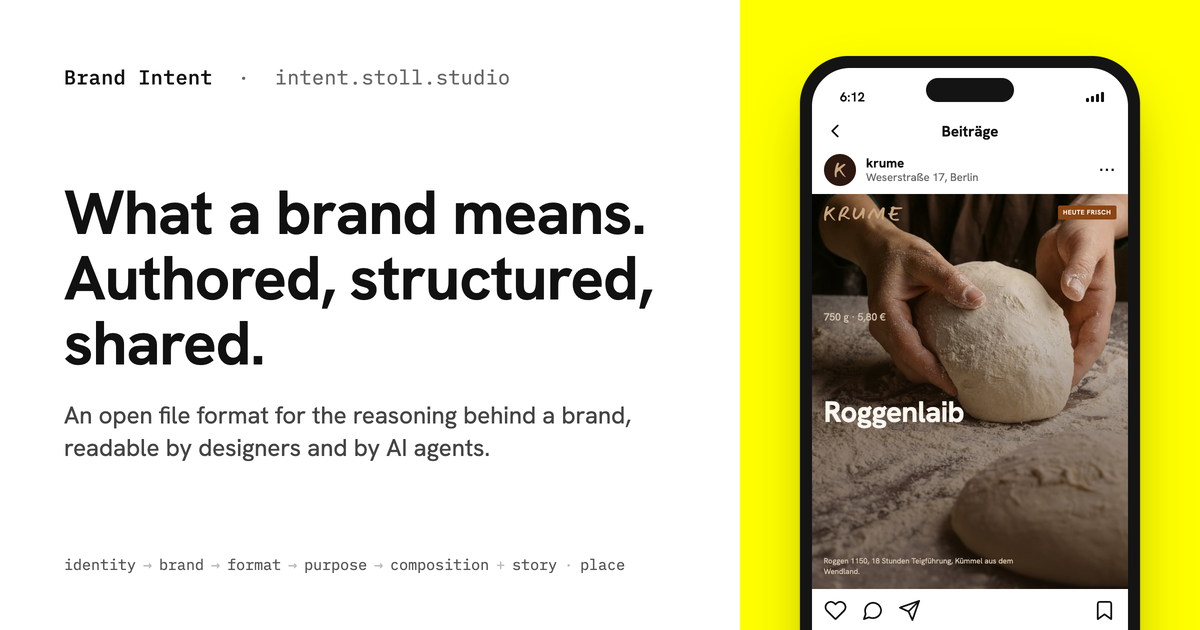
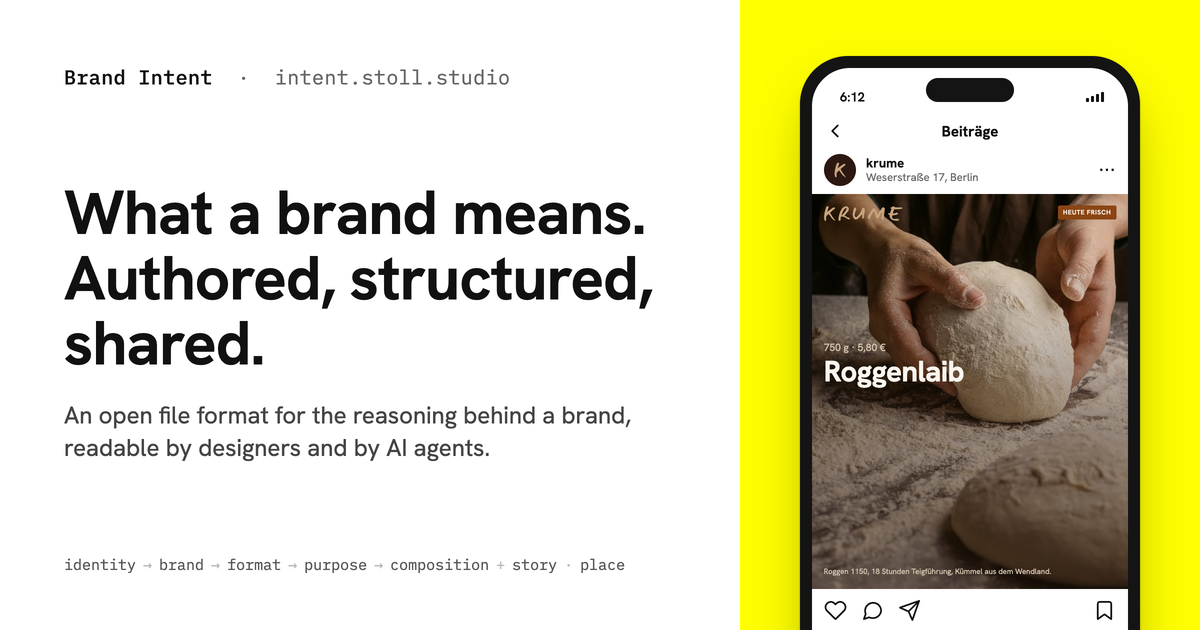
Krume post: kicker sits on the headline, meta line takes the free CTA column
editorial.composition puts secondary at the bottom of row 2 (was
center), so kicker and headline read as a pair. The landing CSS had
put the headline at the bottom of row 3 with no basis in the
composition; it now sits at the top, the spec's default.

The meta line spans all four columns on the landing page because this
page has no cta; the composition still gives meta cols 1--3. OG image
regenerated.

Claude-Session: https://claude.ai/code/session_015dVxXQ7DA8zC9XXfbRFpAh

Changed region(s): [[0.6783, 0.5429, 0.8017, 0.6937], [0.6783, 0.8746, 0.8633, 0.9349], [0.6783, 0.4825, 0.74, 0.5127]]

diff --git a/css/landing.css b/css/landing.css
@@ -334,7 +334,7 @@ pre .flag{ color: var(--color-info); font-style: italic; }
 .post-canvas {
   /* 4:5 canvas, five rows by four columns, comfort margin 40 of 1080 px.
      Sizes in cqw follow krume.brand: headline at its autofit-max 10, kicker at 3.5,
-     caption 2.2, label 2. Tafel theme: flour on dark roast, over the photo with a dark
+     caption 2.6, label 2.2. Tafel theme: flour on dark roast, over the photo with a dark
      scrim from below, at most the 40 % krume.brand allows under light text. */
   container-type: inline-size;
   position: relative;
@@ -380,18 +380,19 @@ pre .flag{ color: var(--color-info); font-style: italic; }
 }
 .pc-secondary {
   grid-row: 2; grid-column: 1 / 5;
-  align-self: center;
+  align-self: end;
   color: #D4C4B0;
   font-weight: 400; font-size: 3.5cqw; line-height: 1.3;
 }
 .pc-primary {
   grid-row: 3; grid-column: 1 / 5;
-  align-self: end;
+  align-self: start;
   font-weight: 700; font-size: 10cqw; line-height: 1.15;
   letter-spacing: -0.015em;
 }
 .pc-meta {
-  grid-row: 5; grid-column: 1 / 4;
+  /* meta is cols 1--3 in editorial.composition; col 4 belongs to the cta, and this page has none */
+  grid-row: 5; grid-column: 1 / 5;
   align-self: end;
   color: #D4C4B0;
   font-weight: 400; font-size: 2.6cqw; line-height: 1.4;
